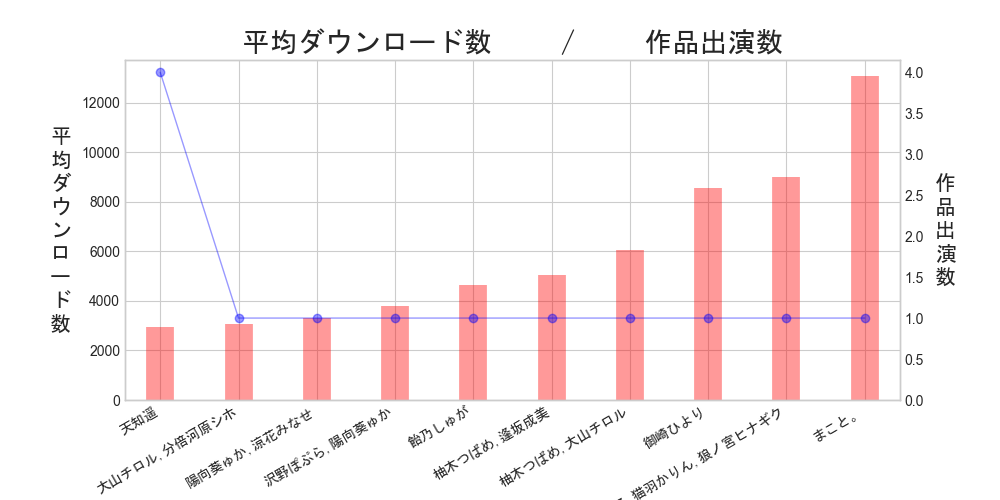
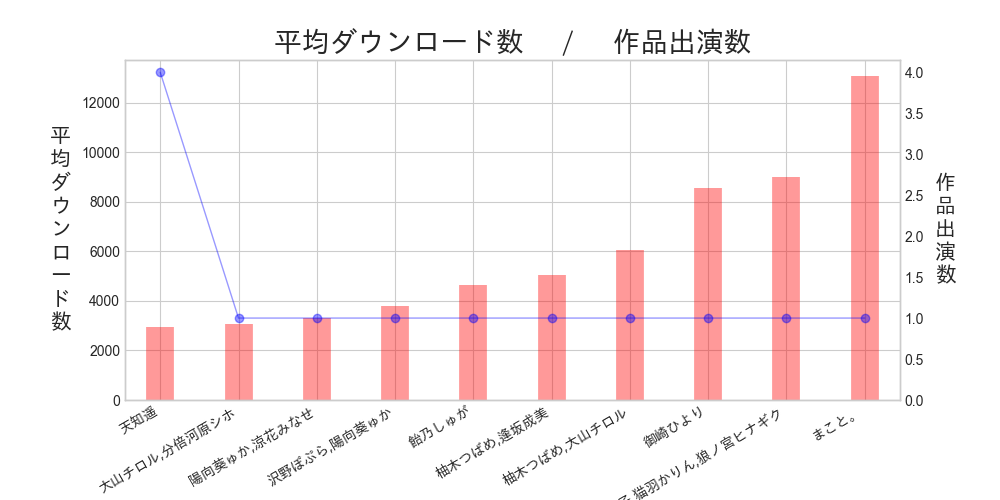
believe IPAexGothic

diff --git a/main.py b/main.py
@@ -5,9 +5,6 @@ import matplotlib.pyplot as plt
 import japanize_matplotlib
 import pandas as pd
 import streamlit as st
-import matplotlib.font_manager
-
-st.write([f.name for f in matplotlib.font_manager.fontManager.ttflist])
 
 # 声優ランキング表示の有無を決定するフラッグ
 flag_dict = {"period": True, "search": False}
@@ -24,17 +21,17 @@ def show_plot(df):
 
     ax1.vlines(df["id"], ymin=0, ymax=df["downloads"], colors="red", alpha=0.4, linewidth=20)
     ax1.set_ylim(ymin=0)
-    ax1.set_ylabel("平\n均\nダ\nウ\nン\nロ\nー\nド\n数", labelpad=15, size=15, rotation=0, va="center", fontfamily="MS Gothic")
-    plt.xticks(df["id"], df.index, rotation=30, horizontalalignment="right", fontfamily="MS Gothic")
+    ax1.set_ylabel("平\n均\nダ\nウ\nン\nロ\nー\nド\n数", labelpad=15, size=15, rotation=0, va="center", fontfamily="IPAexGothic")
+    plt.xticks(df["id"], df.index, rotation=30, horizontalalignment="right", fontfamily="IPAexGothic")
     plt.subplots_adjust(bottom=0.2)
     ax1.invert_xaxis()
 
     ax2 = ax1.twinx()
     ax2.plot(df["id"], df["appearances"], linewidth=1, marker="o", color="blue", alpha=0.4)
     ax2.set_ylim(ymin=0)
-    ax2.set_ylabel("作\n品\n出\n演\n数", labelpad=15, size=15, rotation=0, va="center", fontfamily="MS Gothic")
+    ax2.set_ylabel("作\n品\n出\n演\n数", labelpad=15, size=15, rotation=0, va="center", fontfamily="IPAexGothic")
 
-    plt.title("平均ダウンロード数     /     作品出演数", fontsize=20, fontfamily="MS Gothic")
+    plt.title("平均ダウンロード数     /     作品出演数", fontsize=20, fontfamily="IPAexGothic")
     plt.grid(False)
     plt.savefig("mat.png")
 
